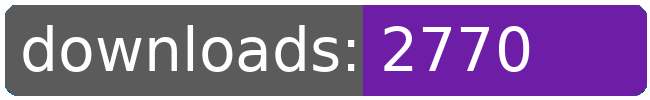
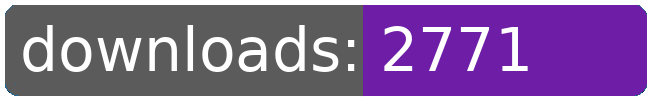
dl log written

Changed region(s): [[0.7692, 0.24, 0.8308, 0.72]]

diff --git a/README.md b/README.md
@@ -21,8 +21,8 @@
 		<td>3527</td>
 		<td>3549</td>
 		<td>3568</td>
-		<td>3569</td>
-		<td>+ 1</td>
+		<td>3570</td>
+		<td>+ 2</td>
 	</tr>
 	<tr>
 		<td>aberrant.kahet.outfitter</td>
@@ -164,8 +164,8 @@
 		<td>2724</td>
 		<td>2749</td>
 		<td>2769</td>
-		<td>2770</td>
-		<td>+ 1</td>
+		<td>2771</td>
+		<td>+ 2</td>
 	</tr>
 	<tr>
 		<td>purchaseable.androids</td>
@@ -274,8 +274,8 @@
 		<td></td>
 		<td></td>
 		<td></td>
-		<td>51853</td>
-		<td>20</td>
+		<td>51855</td>
+		<td>22</td>
 	</tr>
 </table>
 </sub></sup>
@@ -322,8 +322,8 @@
 		<td>3527</td>
 		<td>3549</td>
 		<td>3568</td>
-		<td>3569</td>
-		<td>+ 1</td>
+		<td>3570</td>
+		<td>+ 2</td>
 	</tr>
 	<tr>
 		<td>capture.archons</td>
@@ -366,8 +366,8 @@
 		<td>2724</td>
 		<td>2749</td>
 		<td>2769</td>
-		<td>2770</td>
-		<td>+ 1</td>
+		<td>2771</td>
+		<td>+ 2</td>
 	</tr>
 	<tr>
 		<td>purchaseable.cloakingdevice</td>
@@ -553,8 +553,8 @@
 		<td></td>
 		<td></td>
 		<td></td>
-		<td>51853</td>
-		<td>20</td>
+		<td>51855</td>
+		<td>22</td>
 	</tr>
 </table>
 </sub></sup>
